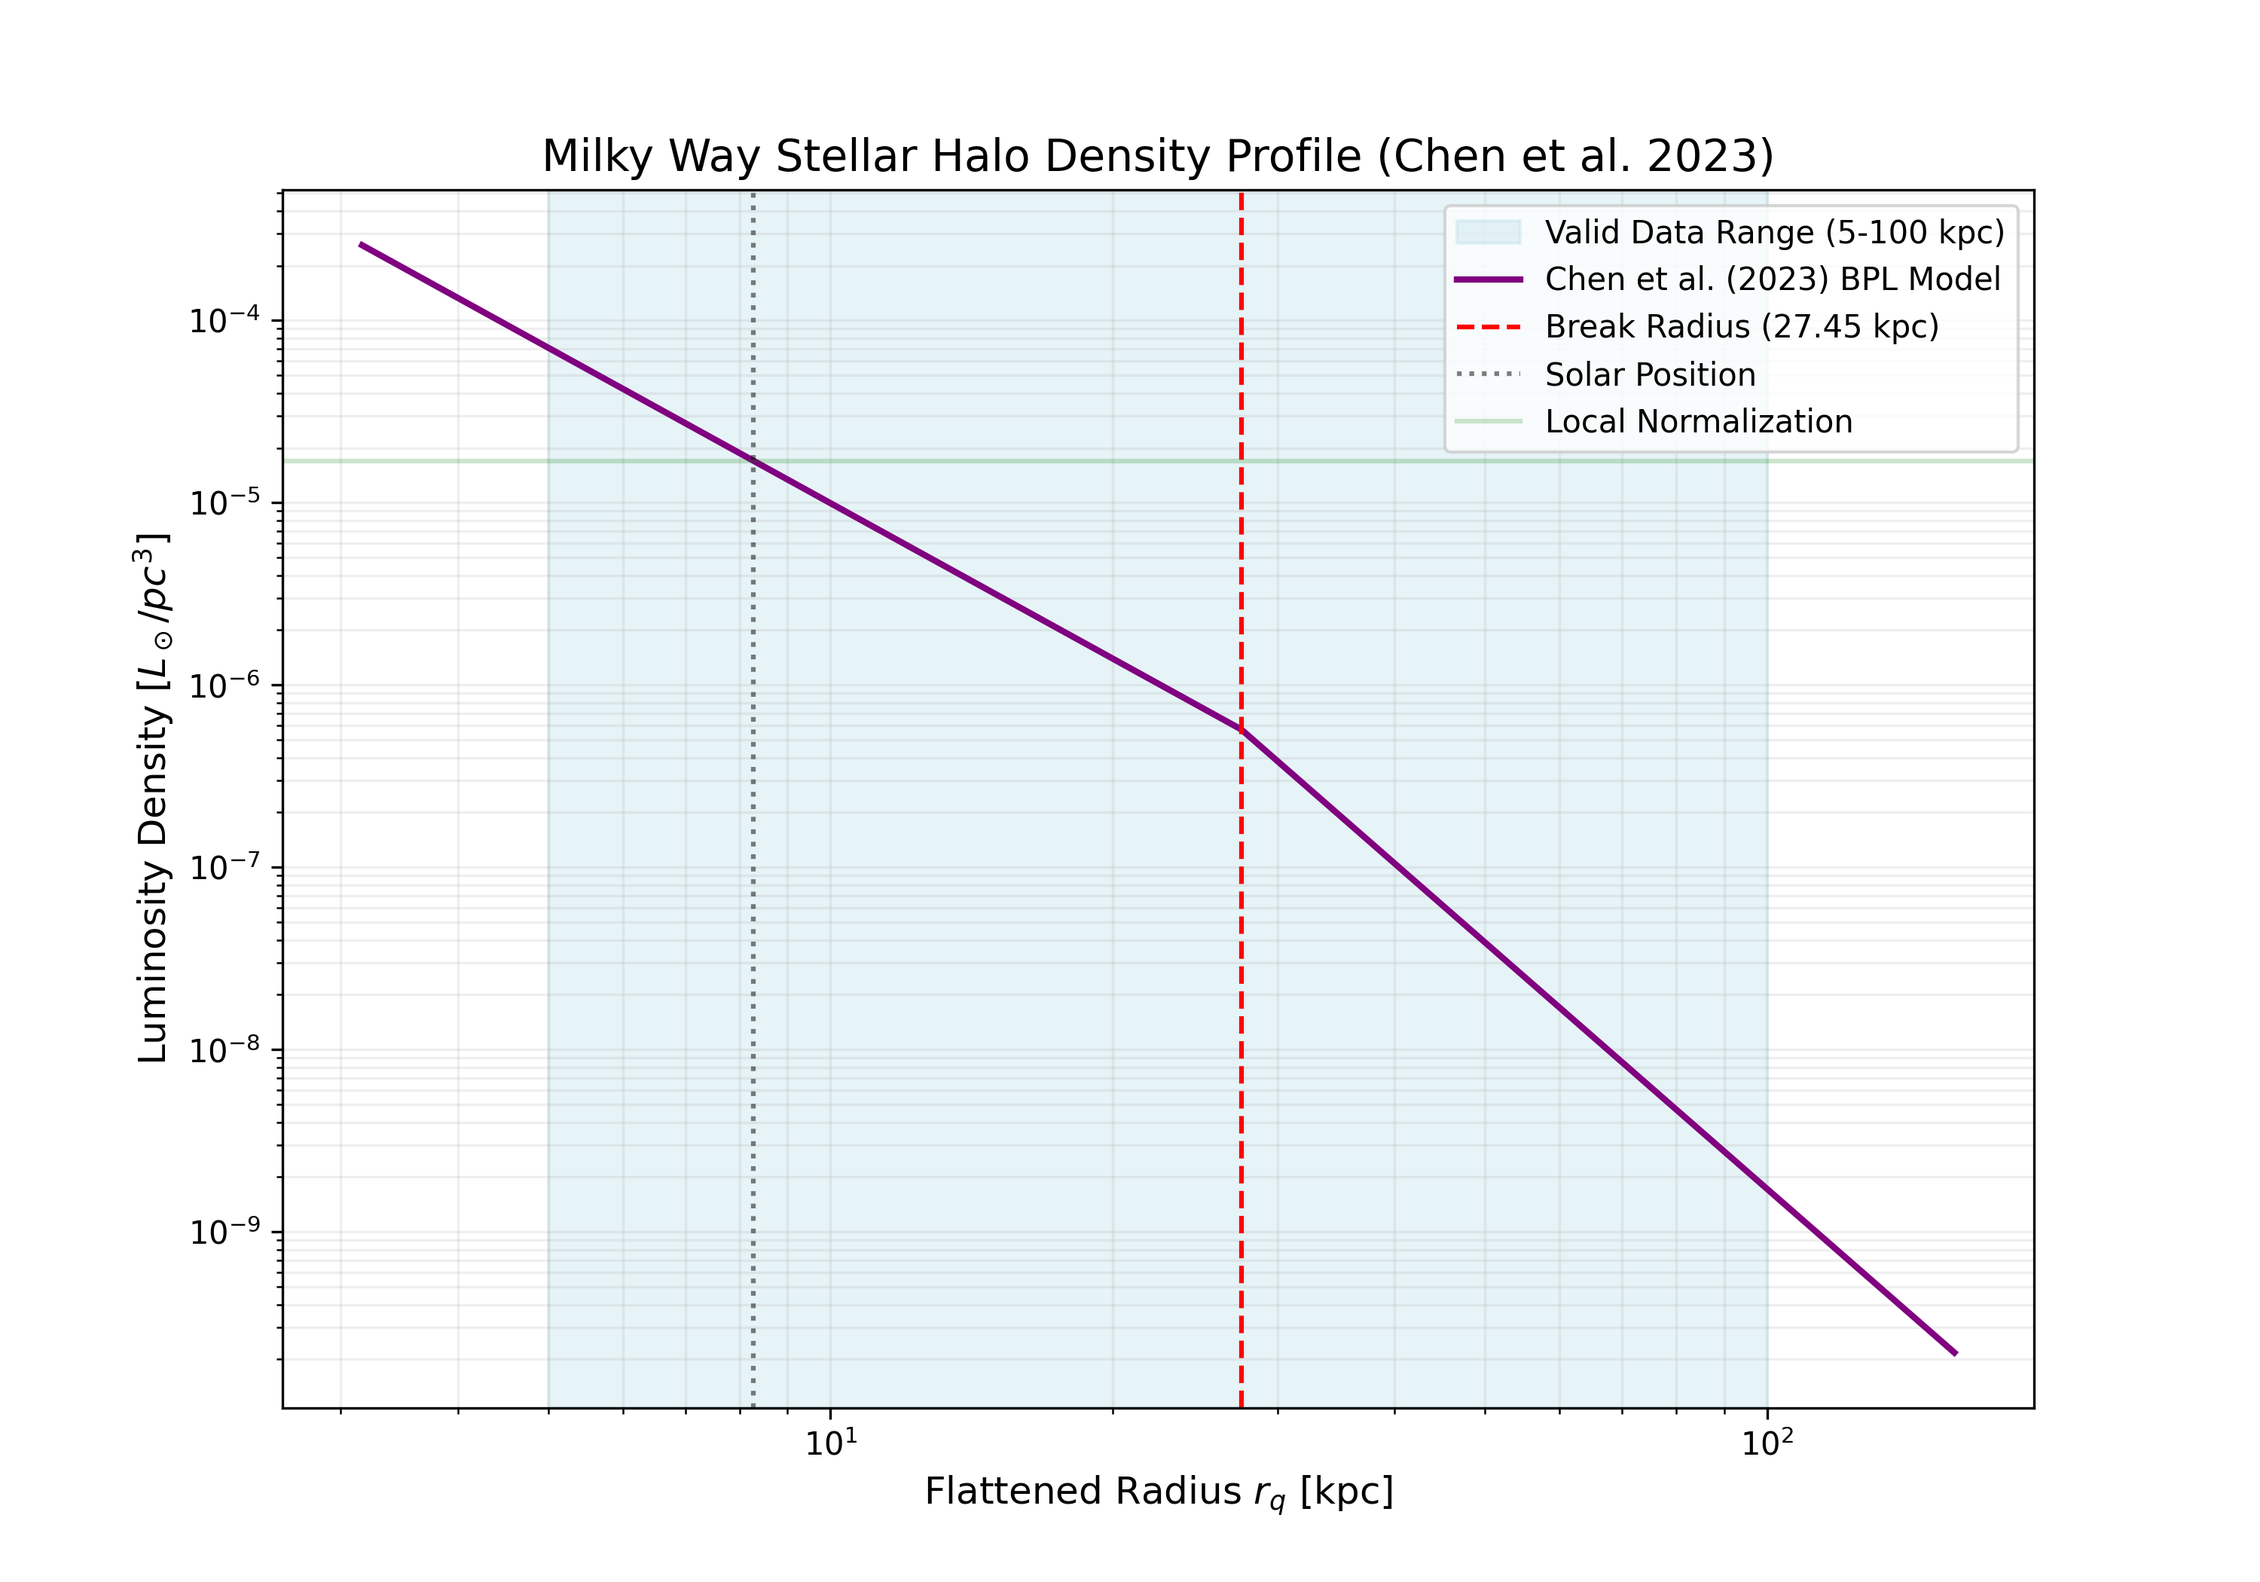
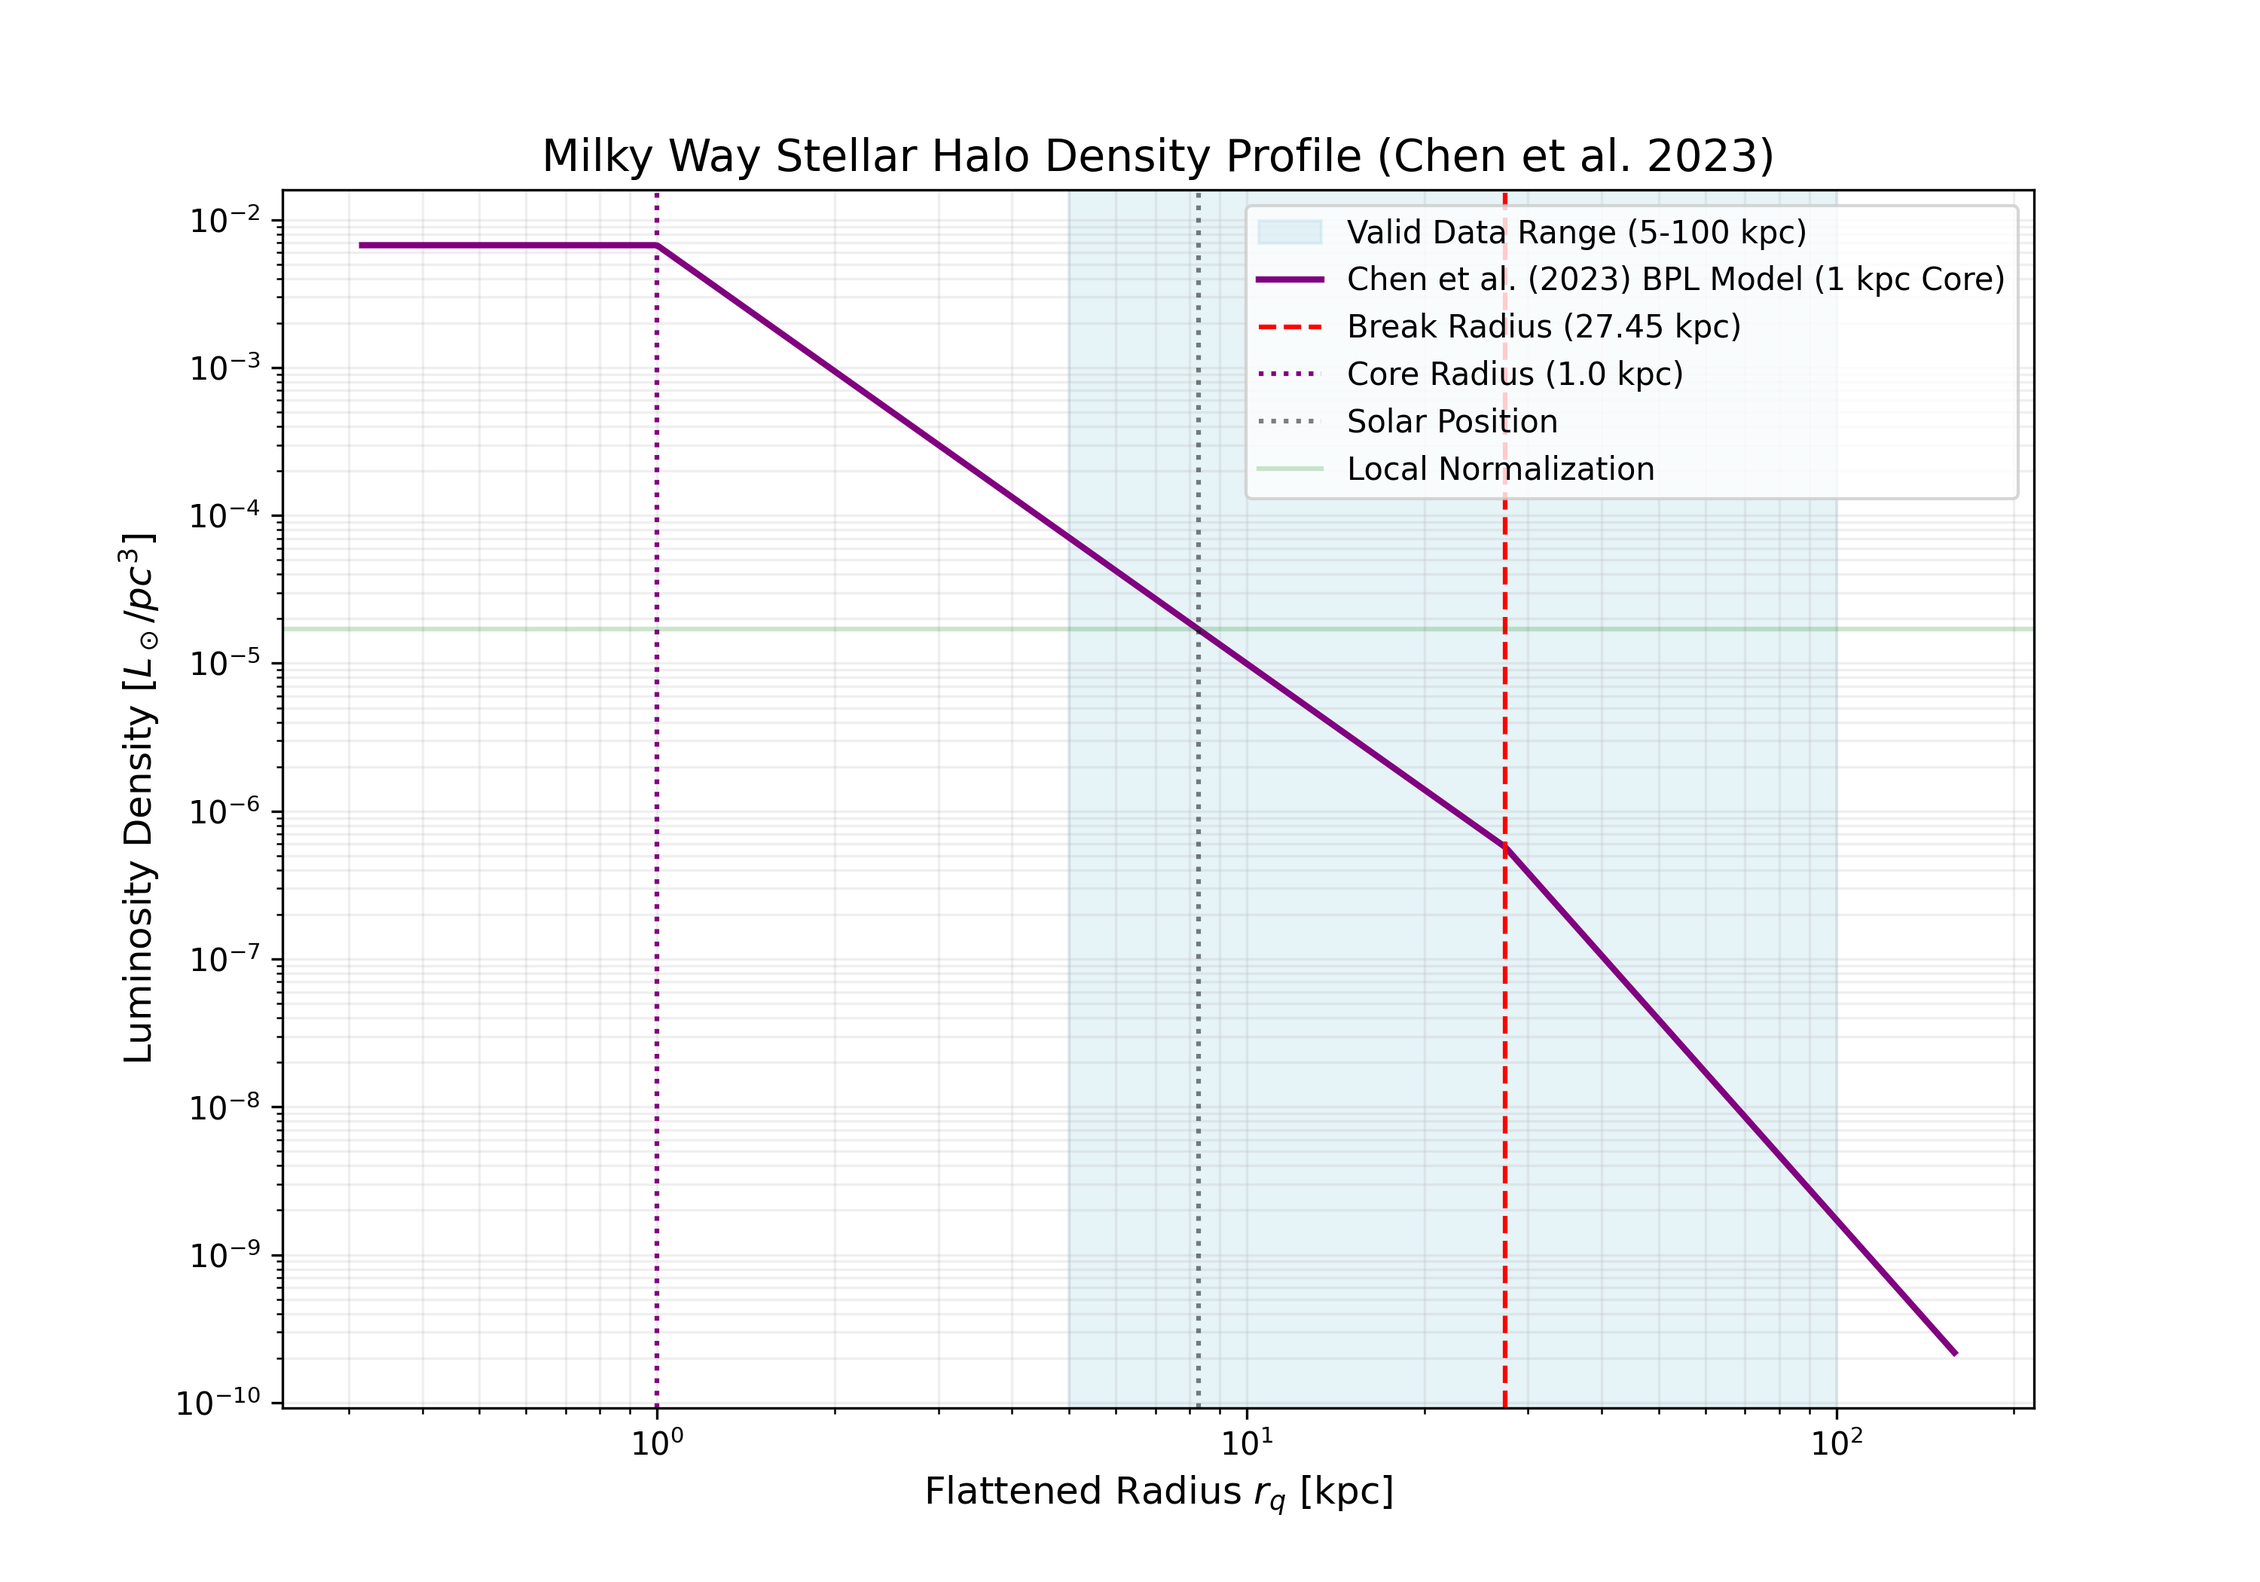
Add files via upload
All power law models now have a 1 kpc, constant density core

diff --git a/script.js b/script.js
@@ -82,60 +82,82 @@ function renderHome() {
 }
 
 function renderLuminosityChart() {
-    const ctx = document.getElementById('luminosityChart');
-    if (!ctx) return;
+    const canvas = document.getElementById('luminosityChart');
+    if (!canvas) return;
 
-    if (luminosityChartInstance) {
-        luminosityChartInstance.destroy();
+    // Ensure Chart.js is loaded
+    if (typeof Chart === 'undefined') {
+        console.warn('Chart.js not loaded yet. Retrying in 100ms...');
+        setTimeout(renderLuminosityChart, 100);
+        return;
     }
 
-    const labels = modelData.map(m => m.title);
-    const data = modelData.map(m => parseFloat(m.luminosity.split(' ')[0]));
+    try {
+        const ctx = canvas.getContext('2d');
+        if (luminosityChartInstance) {
+            luminosityChartInstance.destroy();
+        }
 
-    luminosityChartInstance = new Chart(ctx, {
-        type: 'bar',
-        data: {
-            labels: labels,
-            datasets: [{
-                label: 'Total Halo Luminosity (L⊙)',
-                data: data,
-                backgroundColor: 'rgba(44, 62, 80, 0.7)',
-                borderColor: 'rgba(44, 62, 80, 1)',
-                borderWidth: 1
-            }]
-        },
-        options: {
-            responsive: true,
-            maintainAspectRatio: false,
-            scales: {
-                y: {
-                    beginAtZero: true,
-                    title: {
-                        display: true,
-                        text: 'Luminosity (L⊙)'
-                    }
-                },
-                x: {
-                    ticks: {
-                        minRotation: 45,
-                        maxRotation: 45
-                    }
-                }
+        const labels = modelData.map(m => m.title);
+        const data = modelData.map(m => {
+            const val = parseFloat(m.luminosity.split(' ')[0]);
+            return isNaN(val) ? 0 : val;
+        });
+
+        luminosityChartInstance = new Chart(ctx, {
+            type: 'bar',
+            data: {
+                labels: labels,
+                datasets: [{
+                    label: 'Total Halo Luminosity (L⊙)',
+                    data: data,
+                    backgroundColor: 'rgba(44, 62, 80, 0.7)',
+                    borderColor: 'rgba(44, 62, 80, 1)',
+                    borderWidth: 1
+                }]
             },
-            plugins: {
-                legend: {
-                    display: false
+            options: {
+                responsive: true,
+                maintainAspectRatio: false,
+                scales: {
+                    y: {
+                        beginAtZero: true,
+                        title: {
+                            display: true,
+                            text: 'Luminosity (L⊙)'
+                        }
+                    },
+                    x: {
+                        ticks: {
+                            minRotation: 45,
+                            maxRotation: 45
+                        }
+                    }
                 },
-                tooltip: {
-                    callbacks: {
-                        label: function(context) {
-                            return `Luminosity: ${context.parsed.y.toExponential(2)} L⊙`;
+                plugins: {
+                    legend: {
+                        display: false
+                    },
+                    tooltip: {
+                        callbacks: {
+                            label: function(context) {
+                                let label = context.dataset.label || '';
+                                if (label) {
+                                    label += ': ';
+                                }
+                                if (context.parsed.y !== null) {
+                                    label += context.parsed.y.toExponential(2) + ' L⊙';
+                                }
+                                return label;
+                            }
                         }
                     }
                 }
             }
-        }
-    });
+        });
+    } catch (err) {
+        console.error('Error rendering chart:', err);
+    }
 }
 
 function performSort(col, skipRender = false) {

diff --git a/assets/han2022_density_model.py b/assets/han2022_density_model.py
@@ -6,6 +6,7 @@ def calculate_han2022_halo():
     # Fiducial GSE model
     a1, a2, a3 = 1.70, 3.09, 4.58
     rb1, rb2 = 11.85, 28.33
+    r_core = 1.0  # 1 kpc constant density core
     p, q = 0.81, 0.73
     R_sun = 8.122  # Solar position used in the paper
 
@@ -13,9 +14,11 @@ def calculate_han2022_halo():
     rho_local_Lsun_pc3 = 1.7e-5
     rho_local_Lsun_kpc3 = rho_local_Lsun_pc3 * (1000**3)
 
-    # Doubly Broken Power Law Profile
+    # Doubly Broken Power Law Profile with Core
     def profile(r):
-        if r < rb1:
+        if r < r_core:
+            return r_core**-a1
+        elif r < rb1:
             return r**-a1
         elif r < rb2:
             return (rb1**(a2-a1)) * (r**-a2)
@@ -29,8 +32,10 @@ def calculate_han2022_halo():
 
     # Analytical Integration for Luminosity
     # L = 4 * pi * p * q * Integral[ rho(r) * r^2 dr ]
-    # Part 1: 0 to rb1
-    int1 = (rb1**(3-a1)) / (3-a1)
+    # Part 0: 0 to r_core (constant density)
+    int0 = (r_core**-a1) * (r_core**3 / 3.0)
+    # Part 1: r_core to rb1
+    int1 = (rb1**(3-a1) - r_core**(3-a1)) / (3-a1)
     # Part 2: rb1 to rb2
     C = rb1**(a2-a1)
     int2 = C * (rb2**(3-a2) - rb1**(3-a2)) / (3-a2)
@@ -38,26 +43,28 @@ def calculate_han2022_halo():
     D = C * rb2**(a3-a2)
     int3 = D * (0 - rb2**(3-a3)) / (3-a3)
 
-    L_total = 4 * np.pi * p * q * rho_0 * (int1 + int2 + int3)
+    L_total = 4 * np.pi * p * q * rho_0 * (int0 + int1 + int2 + int3)
 
     print(f"--- Han et al. (2022) GSE Halo Properties ---")
     print(f"Central Norm (rho_0 at 1kpc): {rho_0:.2e} Lsun/kpc^3")
     print(f"Total Halo Luminosity:        {L_total:.2e} Lsun")
     print(f"Break Radii:                  {rb1} kpc, {rb2} kpc")
+    print(f"Core Radius:                  {r_core} kpc")
     print(f"Power-law Indices:            {a1}, {a2}, {a3}")
     print(f"----------------------------------------------")
 
     # Plotting
-    r_vals = np.logspace(0.5, 2, 500)
+    r_vals = np.logspace(-0.5, 2, 500)
     rho_vals = np.array([rho_0 * profile(r) for r in r_vals])
 
     plt.figure(figsize=(10, 7))
     plt.axvspan(5, 50, color='lightblue', alpha=0.3, label='Valid Data Range (5-50 kpc)')
-    plt.loglog(r_vals, rho_vals / (1000**3), color='darkred', linewidth=2, label='Han et al. (2022) GSE Model')
+    plt.loglog(r_vals, rho_vals / (1000**3), color='darkred', linewidth=2, label='Han et al. (2022) GSE Model (1 kpc Core)')
     
     # Markers
     plt.axvline(rb1, color='gray', linestyle=':', label=f'Inner Break ({rb1} kpc)')
     plt.axvline(rb2, color='gray', linestyle='--', label=f'Outer Break ({rb2} kpc)')
+    plt.axvline(r_core, color='purple', linestyle=':', label=f'Core Radius ({r_core} kpc)')
     plt.axvline(R_sun, color='blue', linestyle='-.', alpha=0.5, label='Solar Position')
     plt.axhline(rho_local_Lsun_pc3, color='green', linestyle='-', alpha=0.2, label='Local Normalization')
 

diff --git a/assets/chen2023_density_model.py b/assets/chen2023_density_model.py
@@ -9,6 +9,7 @@ def calculate_chen2023_halo():
     s1 = 2.83
     s2 = 4.49
     r0 = 27.45
+    r_core = 1.0  # 1 kpc constant density core
     q = 0.73
     
     # Solar position (standard value)
@@ -18,9 +19,11 @@ def calculate_chen2023_halo():
     rho_local_Lsun_pc3 = 1.7e-5
     rho_local_Lsun_kpc3 = rho_local_Lsun_pc3 * (1000**3)
 
-    # Broken Power Law Profile Function (r_q = sqrt(x^2 + y^2 + (z/q)^2))
+    # Broken Power Law Profile Function with Core
     def profile(r):
-        if r < r0:
+        if r < r_core:
+            return r_core**-s1
+        elif r < r0:
             return r**-s1
         else:
             return (r0**(s2 - s1)) * (r**-s2)
@@ -33,33 +36,37 @@ def calculate_chen2023_halo():
     # Analytical Integration for Luminosity
     # L = 4 * pi * q * Integral[ rho(r_q) * r_q^2 dr_q ]
     
-    # Part 1: 0 to r0
-    int1 = (r0**(3 - s1)) / (3 - s1)
+    # Part 0: 0 to r_core (constant density)
+    int0 = (r_core**-s1) * (r_core**3 / 3.0)
+    # Part 1: r_core to r0
+    int1 = (r0**(3 - s1) - r_core**(3 - s1)) / (3 - s1)
     # Part 2: r0 to infinity
     C = r0**(s2 - s1)
     int2 = C * (0 - r0**(3 - s2)) / (3 - s2)
     
-    L_total = 4 * np.pi * q * rho_0 * (int1 + int2)
+    L_total = 4 * np.pi * q * rho_0 * (int0 + int1 + int2)
 
     print(f"--- Chen et al. (2023) BPL Halo Properties ---")
     print(f"Central Norm (at 1kpc): {rho_0:.2e} Lsun/kpc^3")
     print(f"Total Halo Luminosity:  {L_total:.2e} Lsun")
     print(f"Break Radius (r0):      {r0} kpc")
+    print(f"Core Radius:            {r_core} kpc")
     print(f"Inner Slope (s1):       {s1}")
     print(f"Outer Slope (s2):       {s2}")
     print(f"Flattening (q):         {q}")
     print(f"---------------------------------------------------")
 
     # Plotting
-    r_vals = np.logspace(0.5, 2.2, 500)
+    r_vals = np.logspace(-0.5, 2.2, 500)
     rho_vals = np.array([rho_0 * profile(r) for r in r_vals])
 
     plt.figure(figsize=(10, 7))
     plt.axvspan(5, 100, color='lightblue', alpha=0.3, label='Valid Data Range (5-100 kpc)')
-    plt.loglog(r_vals, rho_vals / (1000**3), color='purple', linewidth=2, label='Chen et al. (2023) BPL Model')
+    plt.loglog(r_vals, rho_vals / (1000**3), color='purple', linewidth=2, label='Chen et al. (2023) BPL Model (1 kpc Core)')
     
     # Markers
     plt.axvline(r0, color='red', linestyle='--', label=f'Break Radius ({r0} kpc)')
+    plt.axvline(r_core, color='purple', linestyle=':', label=f'Core Radius ({r_core} kpc)')
     plt.axvline(R_sun, color='black', linestyle=':', alpha=0.5, label='Solar Position')
     plt.axhline(rho_local_Lsun_pc3, color='green', linestyle='-', alpha=0.2, label='Local Normalization')
 

diff --git a/assets/yang2022_density_model.py b/assets/yang2022_density_model.py
@@ -6,6 +6,7 @@ def calculate_yang2022_halo():
     # Double-broken power law
     a1, a2, a3 = 1.5, 2.8, 6.1
     rb1, rb2 = 10.0, 25.0
+    r_core = 1.0  # 1 kpc constant density core
     
     # Flattening q: 0.5 at r < 5, 0.8 at r > 30.
     # We'll use a simple linear interpolation or just the values for the integration.
@@ -21,9 +22,11 @@ def calculate_yang2022_halo():
     rho_local_Lsun_pc3 = 1.7e-5
     rho_local_Lsun_kpc3 = rho_local_Lsun_pc3 * (1000**3)
 
-    # Double-Broken Power Law Profile
+    # Double-Broken Power Law Profile with Core
     def profile(r):
-        if r < rb1:
+        if r < r_core:
+            return r_core**-a1
+        elif r < rb1:
             return r**-a1
         elif r < rb2:
             return (rb1**(a2-a1)) * (r**-a2)
@@ -42,14 +45,15 @@ def calculate_yang2022_halo():
     def integrand(r):
         return q_func(r) * profile(r) * r**2
     
-    # Integrate from 0.1 to 150 kpc
-    result, error = quad(integrand, 0.1, 150.0)
+    # Integrate from 0 to 150 kpc
+    result, error = quad(integrand, 0.0, 150.0)
     L_total = 4 * np.pi * rho_0 * result
 
     print(f"--- Yang et al. (2022) Halo Properties ---")
     print(f"Central Norm (at 1kpc): {rho_0:.2e} Lsun/kpc^3")
     print(f"Total Halo Luminosity:  {L_total:.2e} Lsun")
     print(f"Break Radii:            {rb1} kpc, {rb2} kpc")
+    print(f"Core Radius:            {r_core} kpc")
     print(f"Inner Index (a1):       {a1}")
     print(f"Middle Index (a2):      {a2}")
     print(f"Outer Index (a3):       {a3}")
@@ -57,16 +61,17 @@ def calculate_yang2022_halo():
     print(f"-------------------------------------------")
 
     # Plotting
-    r_vals = np.logspace(0, 2.2, 500)
+    r_vals = np.logspace(-0.5, 2.2, 500)
     rho_vals = np.array([rho_0 * profile(r) for r in r_vals])
 
     plt.figure(figsize=(10, 7))
     plt.axvspan(5, 50, color='lightblue', alpha=0.3, label='Valid Data Range (5-50 kpc)')
-    plt.loglog(r_vals, rho_vals / (1000**3), color='darkgreen', linewidth=2, label='Yang et al. (2022) Model')
+    plt.loglog(r_vals, rho_vals / (1000**3), color='darkgreen', linewidth=2, label='Yang et al. (2022) Model (1 kpc Core)')
     
     # Markers
     plt.axvline(rb1, color='gray', linestyle=':', label=f'Inner Break ({rb1} kpc)')
     plt.axvline(rb2, color='gray', linestyle='--', label=f'Outer Break ({rb2} kpc)')
+    plt.axvline(r_core, color='purple', linestyle=':', label=f'Core Radius ({r_core} kpc)')
     plt.axvline(R_sun, color='blue', linestyle='-.', alpha=0.5, label='Solar Position')
     plt.axhline(rho_local_Lsun_pc3, color='green', linestyle='-', alpha=0.2, label='Local Normalization')
 
